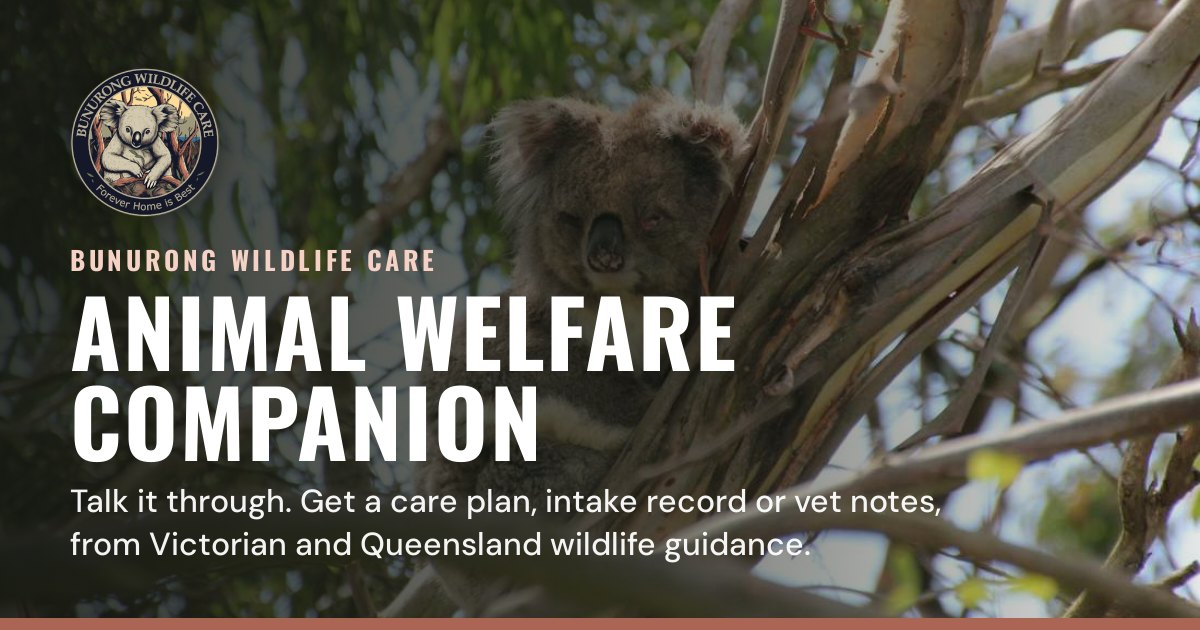
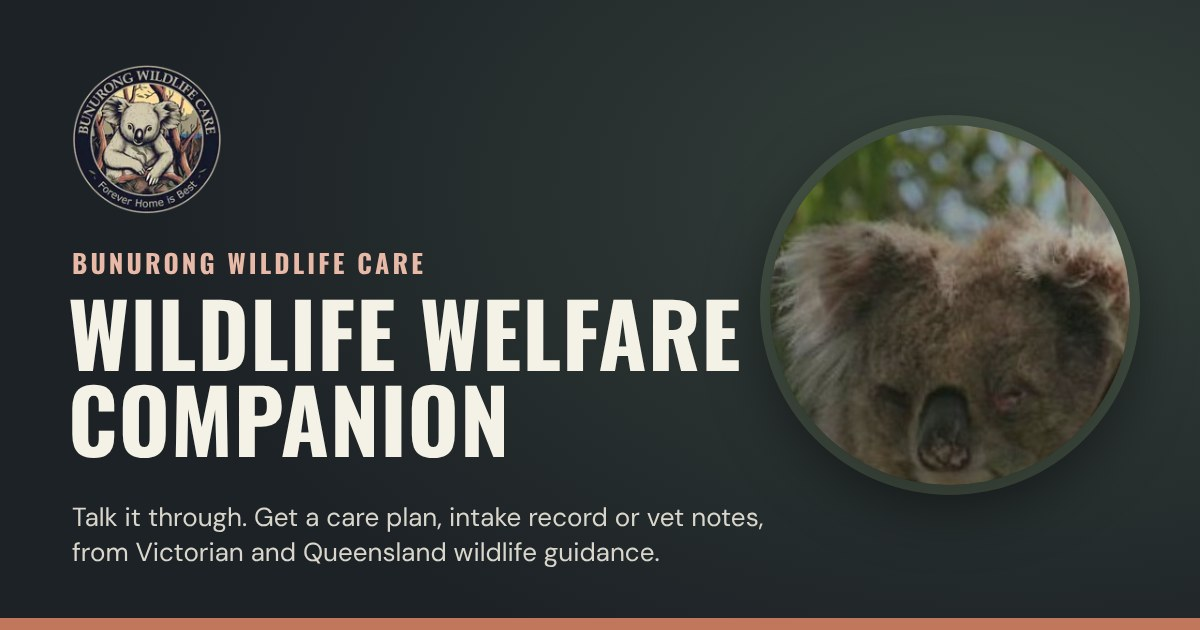
Rename to Wildlife Welfare Companion everywhere: title, splash, header, Home Screen name (WW Companion / WWC Beta), share previews and image, privacy, How it works, printouts and messages
Claude-Session: https://claude.ai/code/session_01Kk2N1PCBz5GfGZ6s1HhATk

diff --git a/index.html b/index.html
@@ -7,27 +7,27 @@
 <meta name="referrer" content="no-referrer">
 <meta name="description" content="Talk it through and get a wildlife care plan, intake record, care log or vet notes, from Victorian and Queensland wildlife guidance. By Bunurong Wildlife Care.">
 <meta property="og:type" content="website">
-<meta property="og:site_name" content="Animal Welfare Companion">
-<meta property="og:title" content="Animal Welfare Companion | Bunurong Wildlife Care">
+<meta property="og:site_name" content="Wildlife Welfare Companion">
+<meta property="og:title" content="Wildlife Welfare Companion | Bunurong Wildlife Care">
 <meta property="og:description" content="Talk it through and get a wildlife care plan, intake record, care log or vet notes, from Victorian and Queensland wildlife guidance. By Bunurong Wildlife Care.">
 <meta property="og:url" content="https://ashley-pettit.github.io/Vet-consult/care/">
-<meta property="og:image" content="https://ashley-pettit.github.io/Vet-consult/care/og.jpg">
+<meta property="og:image" content="https://ashley-pettit.github.io/Vet-consult/care/og.jpg?v=2">
 <meta property="og:image:width" content="1200">
 <meta property="og:image:height" content="630">
-<meta property="og:image:alt" content="A koala in a gum tree with the words Animal Welfare Companion, Bunurong Wildlife Care">
+<meta property="og:image:alt" content="A koala in a gum tree with the words Wildlife Welfare Companion, Bunurong Wildlife Care">
 <meta property="og:locale" content="en_AU">
 <meta name="twitter:card" content="summary_large_image">
-<meta name="twitter:title" content="Animal Welfare Companion">
+<meta name="twitter:title" content="Wildlife Welfare Companion">
 <meta name="twitter:description" content="Talk it through and get a wildlife care plan, intake record, care log or vet notes, from Victorian and Queensland wildlife guidance. By Bunurong Wildlife Care.">
-<meta name="twitter:image" content="https://ashley-pettit.github.io/Vet-consult/care/og.jpg">
-<meta name="apple-mobile-web-app-title" content="AW Companion">
+<meta name="twitter:image" content="https://ashley-pettit.github.io/Vet-consult/care/og.jpg?v=2">
+<meta name="apple-mobile-web-app-title" content="WW Companion">
 <link rel="canonical" href="https://ashley-pettit.github.io/Vet-consult/care/">
 <meta name="theme-color" id="theme-color" content="#2B3138">
 <script>
   // Dark by default; light only when chosen with the switch at the top. Set before the page draws, so it never flashes.
   (function () { var t = 'dark'; try { t = localStorage.getItem('css.theme') === 'light' ? 'light' : 'dark'; } catch (e) {} document.documentElement.dataset.theme = t; document.documentElement.classList.add('booting'); })();
 </script>
-<title>Animal Welfare Companion | Bunurong Wildlife Care</title>
+<title>Wildlife Welfare Companion | Bunurong Wildlife Care</title>
 <link rel="manifest" href="manifest.webmanifest">
 <link rel="icon" href="favicon.ico" sizes="48x48">
 <link rel="icon" href="icons/icon.svg" type="image/svg+xml">
@@ -37,7 +37,7 @@
 <link rel="stylesheet" href="app.css">
 </head>
 <body>
-<div class="boot" aria-hidden="true"><span class="boot-logo brand-logo"></span><span class="boot-name">Animal Welfare Companion</span></div>
+<div class="boot" aria-hidden="true"><span class="boot-logo brand-logo"></span><span class="boot-name">Wildlife Welfare Companion</span></div>
 <a class="skip" href="#transcript">Skip to dictation</a>
 <header class="band">
   <div class="bar">
@@ -52,7 +52,7 @@
     </div>
     <button type="button" class="brand" id="home" aria-label="Home" title="Home">
[1 lines of base64/hex data omitted]
-      <span class="sr-only">Animal Welfare Companion</span>
+      <span class="sr-only">Wildlife Welfare Companion</span>
       <span class="beta-chip" id="beta-chip" aria-hidden="true" hidden>Beta</span>
     </button>
     <div class="bar-right">
@@ -71,7 +71,7 @@
 <div class="hero-banner">
   <div class="hero-inner">
     <p class="hero-eyebrow">Bunurong Wildlife Care</p>
-    <p class="hero-title">Animal Welfare Companion</p>
+    <p class="hero-title">Wildlife Welfare Companion</p>
     <p class="hero-sub">Talk it through. Get the notes.</p>
   </div>
 </div>
@@ -610,10 +610,10 @@
   <form method="dialog">
     <div class="dlg-head"><h2 id="privacy-title">Privacy policy</h2><button type="submit" class="link" value="">Close</button></div>
     <div class="privacy-body">
-      <p class="privacy-date">Animal Welfare Companion · last updated 23 October 2026</p>
+      <p class="privacy-date">Wildlife Welfare Companion · last updated 23 October 2026</p>
 
       <h3>What this tool is for</h3>
-      <p>Animal Welfare Companion helps vets, wildlife carers and hotline staff draft documents: clinical notes, care plans, records, statements and similar. Everything it writes is a draft for a person to check, change and approve.</p>
+      <p>Wildlife Welfare Companion helps vets, wildlife carers and hotline staff draft documents: clinical notes, care plans, records, statements and similar. Everything it writes is a draft for a person to check, change and approve.</p>
 
       <h3>Not used to make decisions</h3>
       <ul>
@@ -631,7 +631,7 @@
 
       <h3>What happens to what you enter</h3>
       <ul>
-        <li><strong>Your words, photos and documents</strong> are sent to Claude to write the draft. On the website they go through the Animal Welfare Companion connection to Anthropic. In the Claude app they go through your own Claude account.</li>
+        <li><strong>Your words, photos and documents</strong> are sent to Claude to write the draft. On the website they go through the Wildlife Welfare Companion connection to Anthropic. In the Claude app they go through your own Claude account.</li>
         <li><strong>Anthropic</strong> handles them under its own terms and privacy policy. Its commercial terms say it doesn’t train its models on content sent this way. If you use the Claude app, your own Claude account settings apply.</li>
         <li><strong>Speech</strong> is turned into text by your browser’s or phone’s speech service (for example Google or Apple) before it reaches the tool.</li>
         <li><strong>Built-in examples</strong> use answers made earlier, so trying them sends nothing.</li>

diff --git a/src/about.js b/src/about.js
@@ -1,4 +1,4 @@
-// "How it works": a short tour of Animal Welfare Companion for wildlife carers at Bunurong Wildlife Care, and the vets they work with.
+// "How it works": a short tour of Wildlife Welfare Companion for wildlife carers at Bunurong Wildlife Care, and the vets they work with.
 // Static, trusted markup only.
 const icon = (d) =>
   `<svg viewBox="0 0 24 24" aria-hidden="true" fill="none" stroke="currentColor" stroke-width="2" stroke-linecap="round" stroke-linejoin="round">${d}</svg>`;
@@ -30,7 +30,7 @@ export const ABOUT_HTML = `
 <div class="hero">
   <p class="eyebrow">How it works</p>
   <h1 tabindex="-1">More time with the animals, less time writing it up</h1>
-  <p class="lede">Talk through the rescue, the day’s care or what you want to ask the vet, the way you would to another carer. Animal Welfare Companion writes it up properly, ready to copy into your records, a text or an email.</p>
+  <p class="lede">Talk through the rescue, the day’s care or what you want to ask the vet, the way you would to another carer. Wildlife Welfare Companion writes it up properly, ready to copy into your records, a text or an email.</p>
   <div class="hero-ctas">
     <button type="button" class="btn primary" data-action="start">Start talking</button>
     <button type="button" class="btn ghost" data-action="example">Try the example</button>
@@ -89,7 +89,7 @@ export const ABOUT_HTML = `
   <div class="safe-icon">${I.shield}</div>
   <div>
     <h2>You stay in charge</h2>
-    <p>Animal Welfare Companion drafts. You decide. Nothing is saved to a server by the app. Check every record, and always follow your vet’s instructions for medications.</p>
+    <p>Wildlife Welfare Companion drafts. You decide. Nothing is saved to a server by the app. Check every record, and always follow your vet’s instructions for medications.</p>
   </div>
 </section>
 
@@ -98,7 +98,7 @@ export const ABOUT_HTML = `
   <details class="faq"><summary>Do I need to talk a special way?</summary><p>No. Talk the way you would to another carer. Say “full stop” or “new line” if you like, but you don’t have to.</p></details>
   <details class="faq"><summary>What if it mishears a species or place?</summary><p>It fixes obvious mishearings and lists them in the check list so you can confirm.</p></details>
   <details class="faq"><summary>Which devices does it work on?</summary><p>Phones, tablets and computers. On a phone it uses your keyboard’s own voice typing, which works well on iPhone and Android.</p></details>
-  <details class="faq"><summary>Where do my words go?</summary><p>Your phone or browser’s voice typing turns speech into text, and Claude writes the record. Nothing is stored by Animal Welfare Companion.</p></details>
+  <details class="faq"><summary>Where do my words go?</summary><p>Your phone or browser’s voice typing turns speech into text, and Claude writes the record. Nothing is stored by Wildlife Welfare Companion.</p></details>
   <details class="faq"><summary>Emergency?</summary><p>In Victoria, call Wildlife Victoria 24/7 on <a href="tel:+61384007300">03 8400 7300</a>. In Queensland, call RSPCA Queensland on <a href="tel:+611300264625">1300 ANIMAL (1300 264 625)</a>, 7am to 7pm.</p></details>
 </section>
 

diff --git a/src/app.js b/src/app.js
@@ -890,7 +890,7 @@ async function ensureProvider() {
 
 const NO_CLAUDE = inClaude
   ? 'Claude isn’t available right now. Check you are signed in, then try again.'
-  : 'This public demo can’t write notes from your own dictation. Open Animal Welfare Companion in the Claude app to use it with your Claude account. The examples work here.';
+  : 'This public demo can’t write notes from your own dictation. Open Wildlife Welfare Companion in the Claude app to use it with your Claude account. The examples work here.';
 
 function waitForIdle(ms = 2500) {
   return new Promise((resolve) => {
@@ -1185,7 +1185,7 @@ function showNotes(list, example) {
   els.noteBanner.textContent = example
     ? inClaude
       ? 'This is the example note. Dictate your own consult to see Claude write one.'
-      : 'This is the example note. In the Claude app, Animal Welfare Companion writes notes like this from your own dictation.'
+      : 'This is the example note. In the Claude app, Wildlife Welfare Companion writes notes like this from your own dictation.'
     : '';
   els.noteBanner.hidden = !example;
   showView('note');
@@ -3237,7 +3237,7 @@ async function refreshConnection() {
     ? 'Connected.'
     : inClaude
       ? 'Claude isn’t available right now.'
-      : 'Public demo. The examples work here. Open Animal Welfare Companion in the Claude app to write notes with your Claude account.';
+      : 'Public demo. The examples work here. Open Wildlife Welfare Companion in the Claude app to write notes with your Claude account.';
   return p;
 }
 
@@ -3721,7 +3721,7 @@ function maybeShowHomeTip() {
   };
   save({ last: Date.now() });
   const box = el('div', { class: 'home-tip', role: 'note' }, [
-    el('p', {}, [el('strong', { text: 'Keep it handy. ' }), `Add Animal Welfare Companion to your home screen. ${tip}`]),
+    el('p', {}, [el('strong', { text: 'Keep it handy. ' }), `Add Wildlife Welfare Companion to your home screen. ${tip}`]),
     el('div', { class: 'home-tip-actions' }, [
       installEvent && /Android|Chrome|Edg/.test(navigator.userAgent)
         ? el('button', { type: 'button', class: 'btn small primary', onclick: async () => { box.remove(); installEvent.prompt(); installEvent = null; } }, 'Add')

diff --git a/src/word.js b/src/word.js
@@ -11,7 +11,7 @@ export const PAGE_W = 9638; // A4 minus 2 cm margins, in twentieths of a point
 // Handout styles, chosen in Settings. Colours are set per printout from the chosen style.
 export const THEMES = {
   bunurong: { name: 'Bunurong Wildlife Care Inc', sub: 'Wildlife Shelter 15147751  ·  Registered Charity  ·  Inverloch, Victoria', primary: '647C50', accent: 'AB6555', tint: 'EEF2E8', line: 'D9DCCF', logo: true, motto: 'Forever home is best', creator: 'Bunurong Wildlife Care' },
-  plain: { name: 'Animal Welfare Companion', sub: 'Wildlife care record', primary: '2F3B45', accent: '2F3B45', tint: 'F1F3F5', line: 'D8DCE0', logo: false, motto: '', creator: 'Animal Welfare Companion' },
+  plain: { name: 'Wildlife Welfare Companion', sub: 'Wildlife care record', primary: '2F3B45', accent: '2F3B45', tint: 'F1F3F5', line: 'D8DCE0', logo: false, motto: '', creator: 'Wildlife Welfare Companion' },
   rspca: { name: '', sub: 'Wildlife care handout', primary: '0B4F8A', accent: '0B4F8A', tint: 'E8F1F9', line: 'CFDDEA', logo: false, wordmark: 'RSPCA', motto: '', creator: 'RSPCA' },
 };
 

diff --git a/tests/e2e/app.spec.js b/tests/e2e/app.spec.js
@@ -158,7 +158,7 @@ test('an expert opinion stays with itself: not kept in Recent, no follow-on docu
 });
 
 test.describe('creating a note', () => {
-  test('the website uses the Animal Welfare Companion connection: no key needed, and the vet name is added', async ({ page }) => {
+  test('the website uses the Wildlife Welfare Companion connection: no key needed, and the vet name is added', async ({ page }) => {
     await fakeSpeech(page);
     const calls = await mockApi(page);
     await openApp(page);
@@ -363,7 +363,7 @@ test.describe('settings', () => {
   });
 
 
-  test('saved settings stay on this device under Animal Welfare Companion’s own name', async ({ page }) => {
+  test('saved settings stay on this device under Wildlife Welfare Companion’s own name', async ({ page }) => {
     await openApp(page);
     await page.locator('#open-settings').click();
     await page.locator('#clinician').fill('Dr Temp');

diff --git a/tests/e2e/helpers.js b/tests/e2e/helpers.js
@@ -39,7 +39,7 @@ export async function mockApi(page, { status = 200, body = apiReply(), delayMs =
   const calls = [];
   // Tests check the real call path, so the examples' ready-made replies are switched off.
   await page.addInitScript({ content: "try { localStorage.setItem('css.nobake', '1'); } catch (e) {}" });
-  // The app talks to the Animal Welfare Companion connection on Cloudflare (or straight to Anthropic with a personal key).
+  // The app talks to the Wildlife Welfare Companion connection on Cloudflare (or straight to Anthropic with a personal key).
   await page.route(/^https:\/\/(api\.anthropic\.com\/v1\/messages|care-scribe-proxy\.ashley-98e\.workers\.dev\/?)$/, async (route) => {
     const req = JSON.parse(route.request().postData() || '{}');
     const prompt = req.messages ? textOf(req.messages[0].content) : '';

diff --git a/tests/e2e/quality.spec.js b/tests/e2e/quality.spec.js
@@ -98,7 +98,7 @@ test('touch targets are at least 44px', async ({ page }, info) => {
 test('installable: manifest, icons and service worker are served', async ({ page, request }) => {
   await openApp(page);
   const manifest = await (await request.get('manifest.webmanifest')).json();
-  expect(manifest.name).toBe('Animal Welfare Companion');
+  expect(manifest.name).toBe('Wildlife Welfare Companion');
   for (const icon of manifest.icons) expect((await request.get(icon.src)).ok(), icon.src).toBeTruthy();
   const sw = await (await request.get('sw.js')).text();
   expect(sw).not.toContain('__VERSION__');

diff --git a/src/ai.js b/src/ai.js
@@ -335,7 +335,7 @@ export async function resolveProvider(settings = {}, env = {}) {
   if (CONFIG.proxyUrl) {
     return {
       id: 'proxy',
-      label: 'Animal Welfare Companion connection',
+      label: 'Wildlife Welfare Companion connection',
       images: true,
       generate: (prompt, signal, { images = [], documents = [], webSearch = false } = {}) => callMessages(CONFIG.proxyUrl, {}, prompt, model, signal, fetchImpl, { viaProxy: true, images, documents, webSearch }),
     };

diff --git a/src/region.js b/src/region.js
@@ -1,4 +1,4 @@
-// Which state's guidance Animal Welfare Companion follows. Chosen at the top of the app and remembered on the device.
+// Which state's guidance Wildlife Welfare Companion follows. Chosen at the top of the app and remembered on the device.
 // Everything state-specific lives here: sources, emergency line, case numbers and how prompts describe the carer.
 import { VIC_SOURCES } from './sources-vic.js';
 import { QLD_SOURCES } from './sources-qld.js';

diff --git a/src/storage.js b/src/storage.js
@@ -133,7 +133,7 @@ export const store = {
   saveDraft(text) {
     write(local, DRAFT, text ? text : null);
   },
-  /** The last thing Animal Welfare Companion made, so it can be reopened after the app is closed. */
+  /** The last thing Wildlife Welfare Companion made, so it can be reopened after the app is closed. */
   loadLast() {
     const v = read(local, LAST, null);
     return v && typeof v === 'object' && v.type && v.data ? v : null;

diff --git a/src/app.css b/src/app.css
@@ -1,4 +1,4 @@
-/* Animal Welfare Companion for Bunurong Wildlife Care. One calm column; the mic is the hero, everything else gets out of its way. */
+/* Wildlife Welfare Companion for Bunurong Wildlife Care. One calm column; the mic is the hero, everything else gets out of its way. */
 :root {
   --bg: #ffffff;
   --surface: #ffffff;

diff --git a/HANDOFF.md b/HANDOFF.md
@@ -1,4 +1,4 @@
-# Handoff: Animal Welfare Companion (Bunurong Wildlife Care)
+# Handoff: Wildlife Welfare Companion (Bunurong Wildlife Care)
 
 Last updated 25 October 2026. For the next Claude Code session.
 
